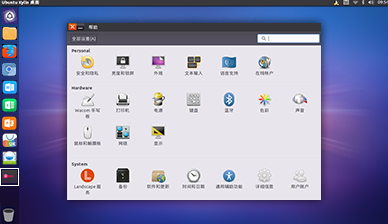
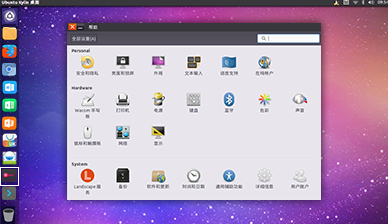
Change thumbnail pic to fit 1610; adjusted line spacing; fixed a small css error about button

diff --git a/resources/wizard.css b/resources/wizard.css
@@ -1,5 +1,5 @@
 /* Theme button in it's normal state */
-button *{
+button {
     font: Ubuntu 12;
     color: white;
     padding: 5px;

diff --git a/src/Wizard.cpp b/src/Wizard.cpp
@@ -385,19 +385,19 @@ void Wizard::DrawDesc(cairo_t *cr)
     pango_layout_set_width(layout, 0.7 * area_width * PANGO_SCALE);
     pango_layout_set_wrap(layout, PANGO_WRAP_WORD_CHAR);
     cairo_set_source_rgb(cr, 1.0, 1.0, 1.0);
-    cairo_move_to(cr, area_width * 0.25, area_height * 0.2);
+    cairo_move_to(cr, area_width * 0.25, area_height * 0.15);
     pango_layout_set_text (layout, _(pages_[page_index_]->GetTitle().c_str()), -1);
     pango_cairo_show_layout(cr, layout);
 
     desc = pango_font_description_from_string("Ubuntu 24");
     pango_layout_set_font_description(layout, desc);
-    cairo_move_to(cr, area_width * 0.25, area_height * 0.3);
+    cairo_move_to(cr, area_width * 0.25, area_height * 0.30);
     pango_layout_set_text(layout, _(pages_[page_index_]->GetName().c_str()), -1);
     pango_cairo_show_layout(cr, layout);
 
     desc = pango_font_description_from_string("Ubuntu 16");
     pango_layout_set_font_description(layout, desc);
-    cairo_move_to(cr, area_width * 0.25, area_height * 0.4);
+    cairo_move_to(cr, area_width * 0.25, area_height * 0.43);
     pango_layout_set_text(layout, _(pages_[page_index_]->GetDescription().c_str()), -1);
     pango_cairo_show_layout(cr, layout);
 
